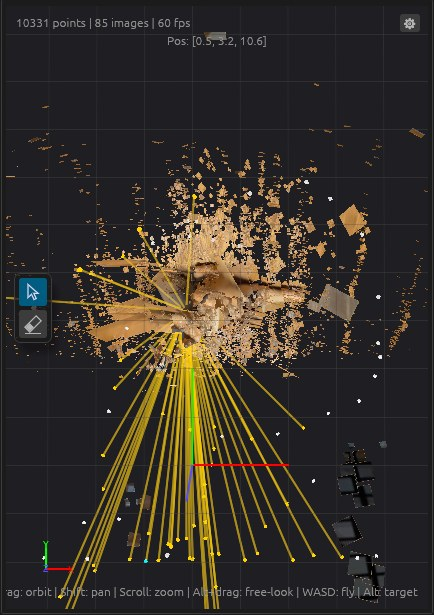
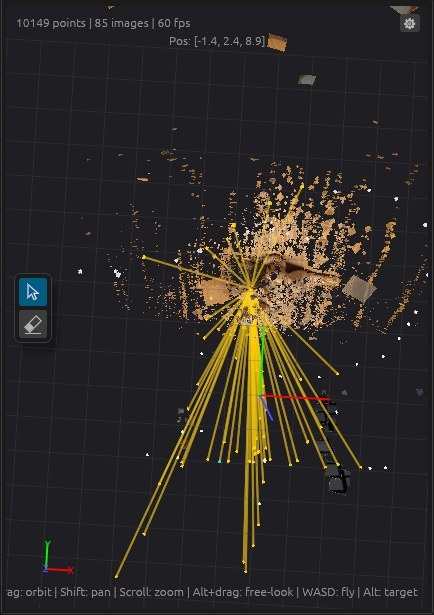
Add a step that prunes covered observations to Viewing 3D Point Tracks
Some observations are large patches that clutter the view, and a
smaller observation in the same pixels is generally more accurate. The
new step 2 runs Prune Covered Observations from the Scene panel's
context menu right after the conversion to embedded patches, and shows
the menu entry and the 3D view afterwards.

The later steps are renumbered. Their screenshots are retaken from the
pruned reconstruction, which has 10149 points instead of 10331. The
page spec lists the new step.

diff --git a/docs/tutorials/point-tracks.md b/docs/tutorials/point-tracks.md
@@ -27,7 +27,25 @@ The 3D view draws the points as small squares of photograph.
 
 The change is held in the viewer until **File > Save** writes it to the file.
 
-## 2. Put Image Detail beside Track View
+## 2. Prune covered observations
+
+Some observations are large patches that clutter the view. A smaller
+observation in the same pixels of the same photograph is generally more
+accurate, so prune the larger ones. In the **Scene** panel, right-click the
+reconstruction's row again and choose **Prune Covered Observations**.
+
+![The Scene panel's context menu for the reconstruction's row, with Prune Covered Observations highlighted](images/point-tracks-prune-menu.jpg)
+
+The viewer retires every observation that a smaller one covers in the same
+photograph. It drops each point left with fewer than two observations. The
+3D Viewer's status line reads *Pruned covered observations in …*, with the
+counts. In the run these screenshots come from, 2454 of 74835 observations were
+retired and 182 points dropped, leaving 10149 points. The large squares are
+gone from the 3D view.
+
+![The 3D Viewer after pruning, from the same viewpoint: fewer large squares cover the dino, and the status line reads Pruned covered observations with 2454 of 74835 observations retired and 182 points dropped](images/point-tracks-pruned-3d-view.jpg)
+
+## 3. Put Image Detail beside Track View
 
 In the stock layout, **Image Detail** is a tab behind the **3D Viewer**, and
 **Track View** is on the right. Drag the **Image Detail** tab into the middle
@@ -39,7 +57,7 @@ the right.
 
 ![Three areas side by side: the 3D Viewer with the Track Table tab beside it, Image Detail, and Track View](images/point-tracks-three-panel-layout.jpg)
 
-## 3. Look through a photograph
+## 4. Look through a photograph
 
 In the **Image Browser** at the bottom, double-click the thumbnail labelled
 `…03.jpg` to select it and look through it. That is `dino_dog_toy_03.jpg`,
@@ -59,7 +77,7 @@ the bottom right.
 
 ![Image Detail with the Track Length overlay: red, yellow and green dots on the photograph and a colour bar from 2 to 53 at the bottom right](images/point-tracks-track-length-overlay.jpg)
 
-## 4. Select the longest track in the photograph
+## 5. Select the longest track in the photograph
 
 Click the **Track Table** tab, beside the 3D Viewer tab. Tick **Seen in
 selected image**, so that the table lists only the points seen in
@@ -80,7 +98,7 @@ says what the other columns measure.
 
 ![Track View for the selected point: the header shows track: 53 obs, and the rows start with Img 2, 3, 4, 5, 6 and 9, each with its Crop and Patch](images/point-tracks-track-view.jpg)
 
-## 5. Navigate in camera view
+## 6. Navigate in camera view
 
 Click the **3D Viewer** tab. It is still looking through camera image 2. It
 draws the selected track as lines from the point to each camera that sees it.
@@ -101,7 +119,7 @@ With the pointer over the 3D Viewer:
 These keep camera view. The status line reads *Looking through …* after a
 double-click or Z, and *Selected image …* after `.`, `,` or a click.
 
-## 6. Navigate freely
+## 7. Navigate freely
 
 Hold Shift and drag to pan. On a trackpad, hold Shift and drag two fingers.
 A pan moves the camera and leaves camera view. The photograph behind the
@@ -124,7 +142,7 @@ Orbit and fly until the track's lines all show, as in this screenshot.
 
 ![The 3D Viewer showing the scene from above and behind the cameras, with the selected track's yellow lines running from the point to each camera](images/point-tracks-free-navigation.jpg)
 
-## 7. Move the target
+## 8. Move the target
 
 Hold Alt and drag to look around from where the camera stands. The target
 moves around the camera, instead of the camera moving around the target. While

diff --git a/specs/pages/point-tracks.md b/specs/pages/point-tracks.md
@@ -5,7 +5,8 @@
 **Reader's goal:** learn to use SfM Explorer by following one 3D point
 through the photos that see it.
 
-**Afterwards the reader** can give a reconstruction embedded patches, arrange
+**Afterwards the reader** can give a reconstruction embedded patches, prune
+the observations that smaller ones cover, arrange
 **Image Detail** beside **Track View**, look through a photo, colour its
 features by track length, select the point with the longest track from the
 **Track Table**, and move around the 3D view in camera view and freely.
@@ -23,20 +24,26 @@ words and ends with something to check on screen (`AGENTS.md`).
 
 1. Convert to embedded patches (**Scene** panel context menu), so Track View
    has patches to compare.
-2. Dock **Image Detail** between the **3D Viewer** and **Track View**.
-3. Look through the photo from the **Image Browser**; set **Overlay** to
+2. Prune covered observations (**Scene** panel context menu). Large patches
+   clutter the view, and a smaller observation in the same pixels is
+   generally more accurate, so the step retires the larger ones. The later
+   steps, their numbers and their screenshots come from the pruned
+   reconstruction.
+3. Dock **Image Detail** between the **3D Viewer** and **Track View**.
+4. Look through the photo from the **Image Browser**; set **Overlay** to
    **Track Length**.
-4. In the **Track Table**, show the points seen in the selected image, sort by
+5. In the **Track Table**, show the points seen in the selected image, sort by
    **Track**, select the top row; read Track View's header.
-5. Navigate in camera view.
-6. Navigate freely.
-7. Move the target and show it with **Target indicator**.
+6. Navigate in camera view.
+7. Navigate freely.
+8. Move the target and show it with **Target indicator**.
 
 ## Output and screenshots
 
 No command output. Each screenshot shows the thing the sentence before it
 tells the reader to look at (`AGENTS.md`): the context menu, the Scene row
-after conversion, the layout, the selected thumbnail, the overlay, the sorted
+after conversion, the menu entry that prunes, the 3D view after pruning with
+its status line, the layout, the selected thumbnail, the overlay, the sorted
 table, Track View, the camera view with the track, free navigation, the
 **Display** box and the target compass. Screenshots come from the shared run.
 
@@ -48,5 +55,7 @@ table, Track View, the camera view with the track, free navigation, the
 - Every key binding:
   [`viewport-navigation.md`](https://github.com/sfmtool/sfmtool/blob/main/specs/gui/viewport-navigation.md).
   The page lists the keys the steps use.
+- Which observations the prune retires, in full:
+  [`prune-covered-observations.md`](https://github.com/sfmtool/sfmtool/blob/main/specs/gui/edits/prune-covered-observations.md).
 - How patches are made:
   [`embed-patches-command.md`](https://github.com/sfmtool/sfmtool/blob/main/specs/cli/reconstruction/embed-patches-command.md).
